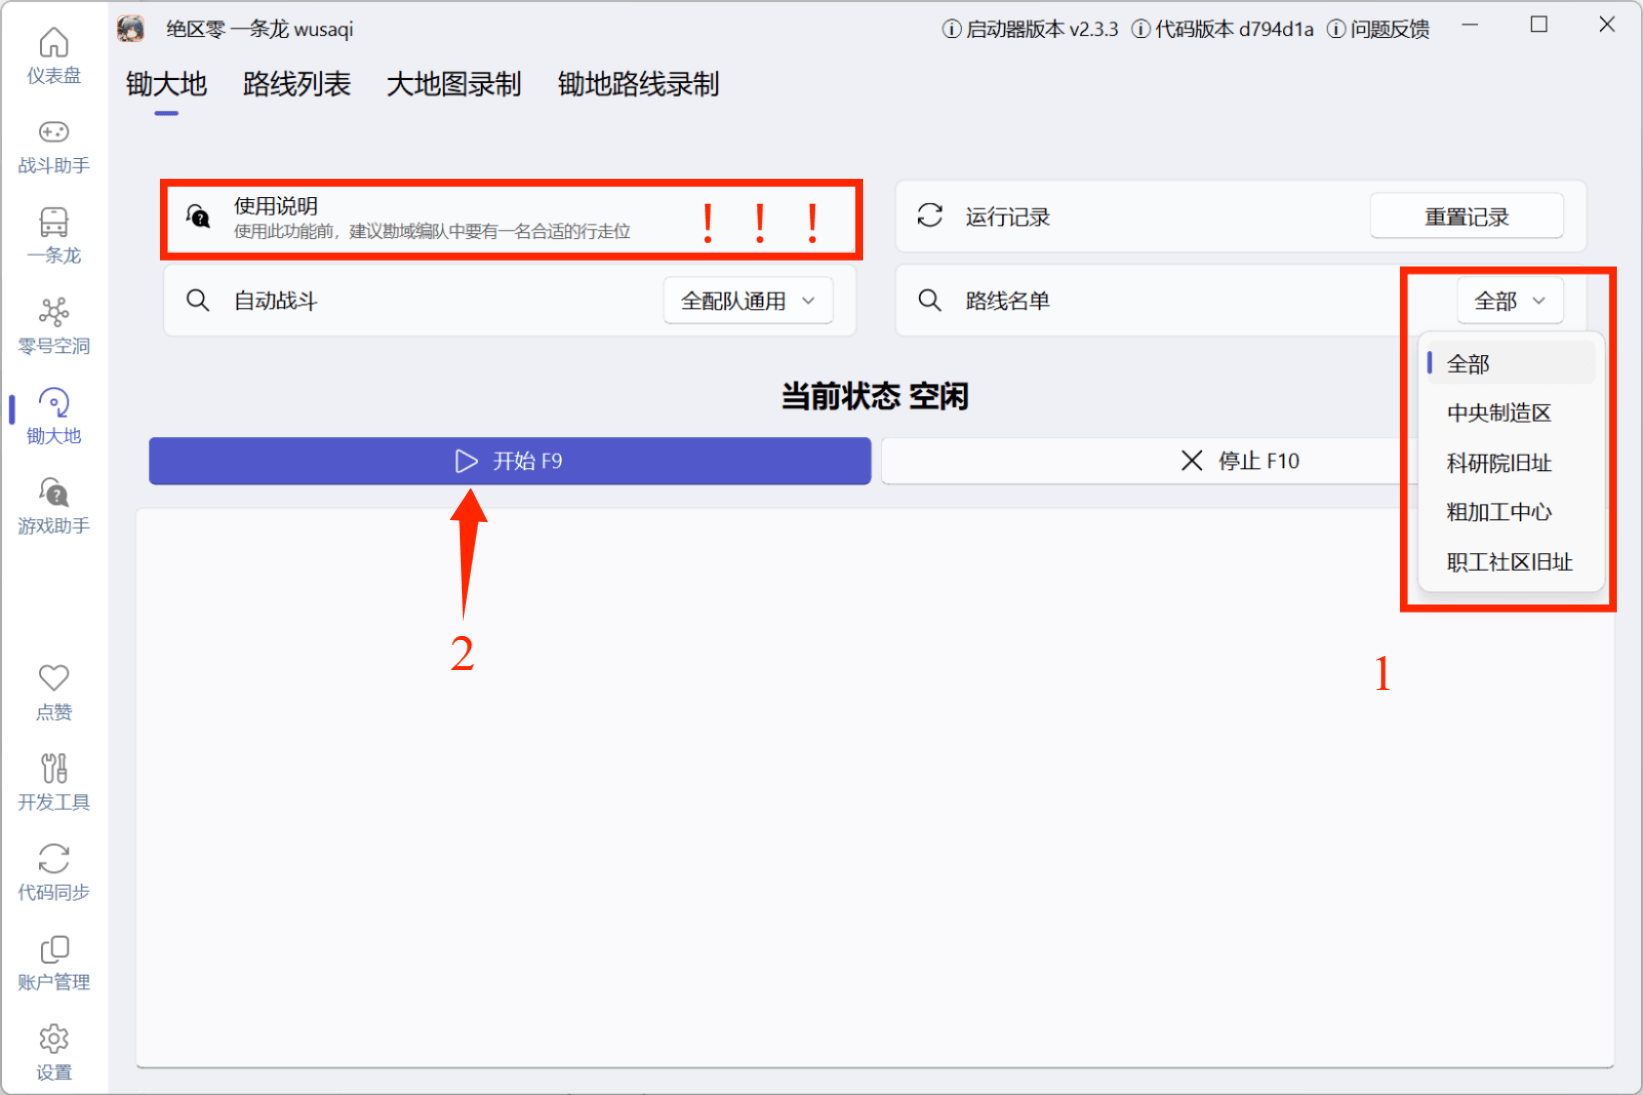
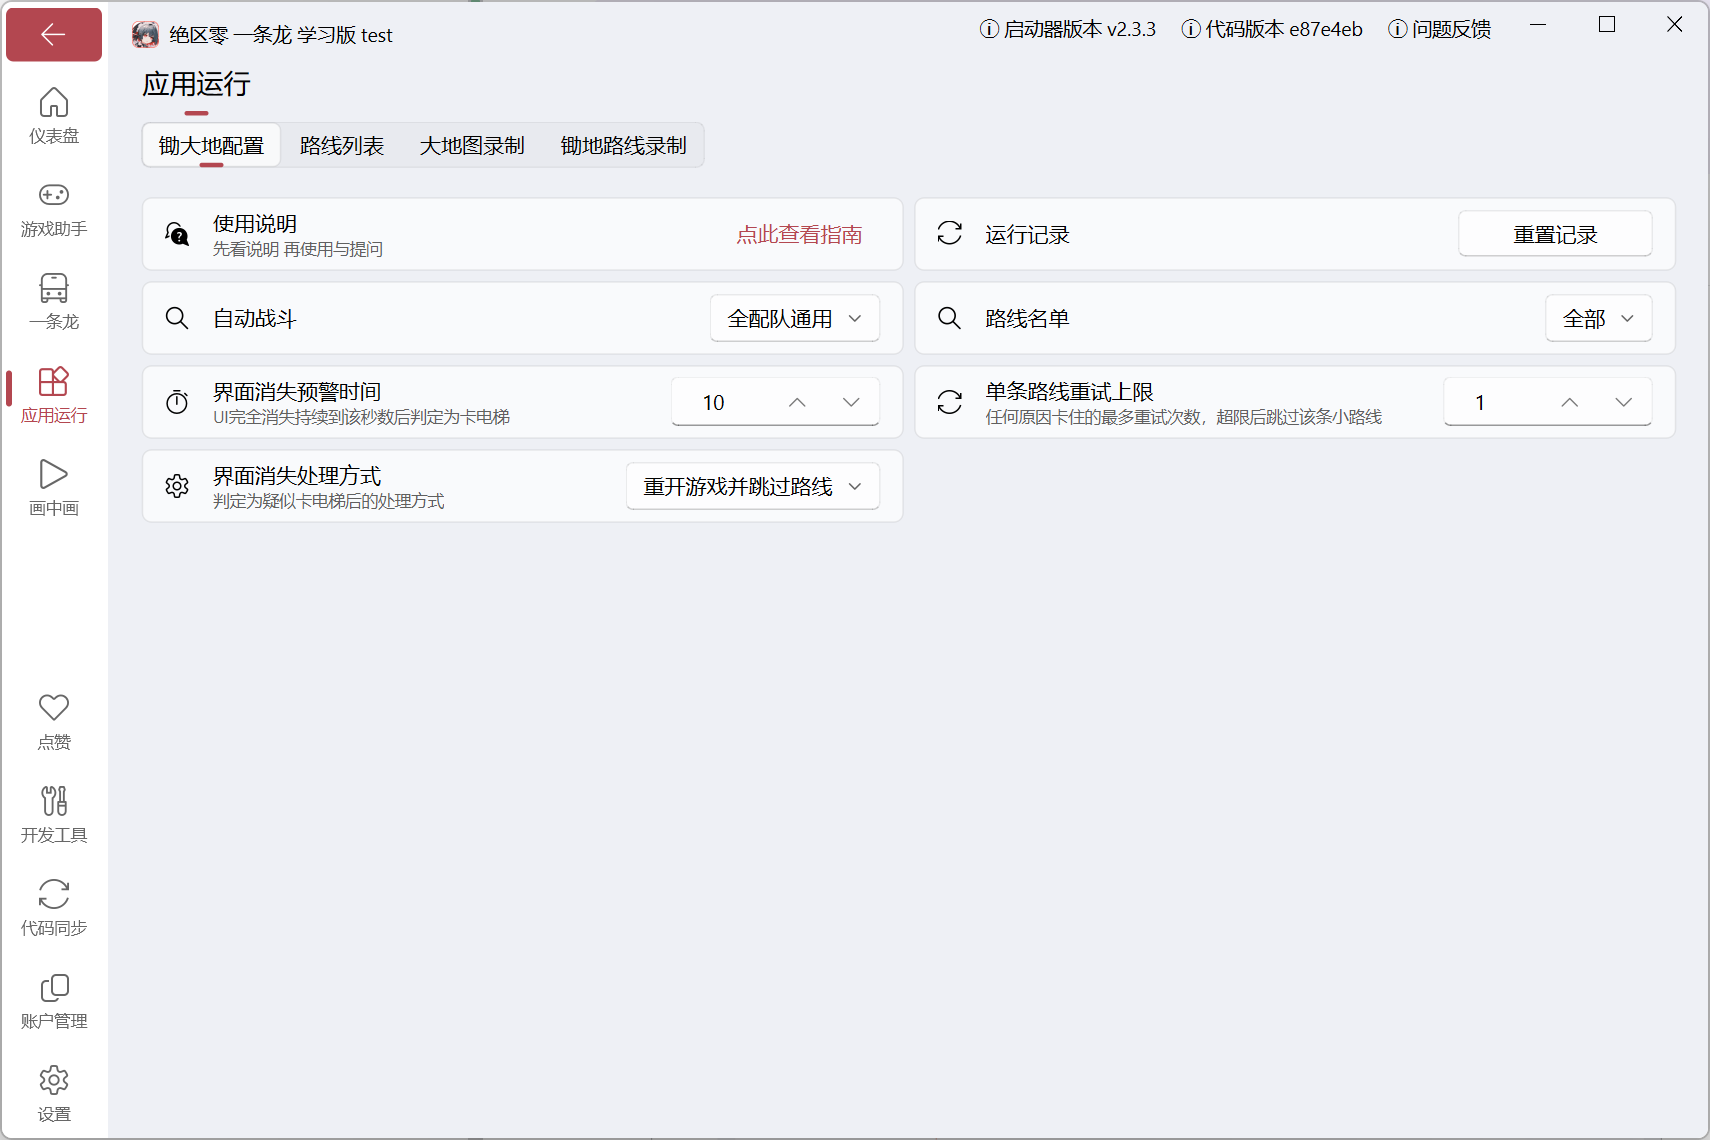
锄大地：补齐剩余配置说明

diff --git a/src/zzz/zh/feat_one_dragon/world_patrol.md b/src/zzz/zh/feat_one_dragon/world_patrol.md
@@ -1,7 +1,7 @@
 ---
 lang: zh-CN
 title: 锄大地
-date: 2026-04-21
+date: 2026-05-31
 ---
 
 使用本页说明的功能时，建议阅读以下内容：
@@ -9,9 +9,10 @@ date: 2026-04-21
 
 - 锄大地功能意见或问题，请前往[issue](https://github.com/OneDragon-Anything/ZenlessZoneZero-OneDragon/issues)或[PR](https://github.com/OneDragon-Anything/ZenlessZoneZero-OneDragon/pulls)
 - 首次使用前，建议运行一次[灵敏度校准](./onedragon.md#灵敏度校准)
+- 路线相关功能（`路线列表`、`大地图录制`、`锄地路线录制`）属于进阶/开发向功能，绝大多数用户<font color="red">无需自行录制或编辑名单</font>，[锄大地配置](#锄大地配置)的 `路线名单` 保持默认 `全部` 即可。仅在需要补充新区域、修正路线或自定义运行范围时，才需要用到这些内容
 :::
 
-## 锄大地
+## 功能说明
 
 用于自动前往 `航天城` 清理野怪完成锄大地，获得丁尼、代理人经验和音擎经验材料
 
@@ -29,19 +30,76 @@ date: 2026-04-21
 
 ![锄大地](world_patrol/feat_world_patrol.png)
 
-## 锄大地录制
+## 配置说明
+
+### 锄大地配置
+
+在 `锄大地配置` 标签页中，可对运行行为进行设置。一般情况下使用默认配置即可，下面对各配置项做说明。
+
+| 配置项 | 说明 |
+| ---- | ---- |
+| 运行记录 | 点击 `重置记录` 可清空当天已完成路线的记录，方便重新运行 |
+| 自动战斗 | 选择锄大地过程中触发战斗时使用的自动战斗配置，默认为 `全配队通用`，配置方式详见 [自动战斗](../feat_game_assistant.md#战斗助手) |
+| 路线名单 | 选择运行时使用的[路线名单](#路线列表)，默认 `全部`（即不做名单过滤，运行所有路线） |
+| 界面消失预警时间 | 当游戏界面（UI）完全消失并持续到设定秒数后，判定为 `疑似卡电梯`。默认 `10` 秒，最大 `999` 秒 |
+| 单条路线重试上限 | 单条路线因任何原因卡住时的最大重试次数，超过后跳过该条路线。默认 `1` |
+| 界面消失处理方式 | 判定为疑似卡电梯后的处理方式。可选：`静默失败`（默认，直接判定当前路线失败并跳过，不重开游戏）、`重开游戏并跳过路线`（自动关闭并重新打开游戏，然后跳过当前路线）、`重开游戏并重试路线`（自动关闭并重新打开游戏，在 `单条路线重试上限` 范围内重新尝试当前路线，超限后才跳过） |
+
+::: tip
+若选择带 `重开游戏` 的处理方式，需要确保已正确配置游戏路径，否则脚本无法重新打开游戏。
+:::
 
 ### 路线列表
+
+`路线列表` 用于把录制好的路线组合成一份名单，供 [锄大地配置](#锄大地配置) 的 `路线名单` 选择运行。
 
 1. 点击 `名单选择` 右侧的框，选择白名单/黑名单模式
 2. 点击 `新建` 创建路线，输入路线名称
 3. 选择区域添加已有路线(当前有且仅有莱姆尼安空洞)
 4. 添加完成后点击 `保存` ，即可在路线名单内找到并运行
 
+更多操作说明：
+
+- **名单类型**：`白名单` 表示只运行名单内的路线；`黑名单` 表示运行除名单内以外的所有路线。
+- **添加路线**：在 `区域选择` 选好区域后，下方 `当前区域可用路线` 会列出该区域所有路线。可选中单条后点 `添加单条路线`，或直接点 `添加整个区域` 一次性加入。
+- **顺序调整**：在上方 `路线列表` 中选中某条路线，用 `上移`/`下移` 调整运行顺序，`移除` 将其从名单中删除。
+- **保存/删除**：编辑完成后点击 `保存`；`删除` 可删除整份名单，`取消` 放弃当前编辑。
+
 ### 大地图录制
 
-> 待施工
+`大地图录制` 用于拼接出一个完整区域的大地图，作为路线录制的底图。原理是：在游戏中转动视角，脚本对小地图进行截图、识别道路，并不断合并到一张大地图上。
+
+操作步骤：
+
+1. **选择区域**：在 `区域` 行依次选择 `入口` 和具体 `区域`。
+2. **加载/重置**：点击 `加载` 读取该区域已有的大地图数据；若不存在则会新建一张空地图。已加载后按钮变为 `重置`。
+3. **首次缩放（仅第一次需要）**：在 `缩放` 中填入百分比（默认 `40`）后点击 `应用`，用于把地图调整到合适大小。后续在同一张地图上继续录制时无需再调整。
+4. **截图(1)**：进入游戏对应区域后，点击 `截图` 或按快捷键 `1`。脚本会截取当前小地图，自动转身 180° 再截一次，并把两次结果合并，得到一段较完整的小地图道路。
+5. **定位(2)**：点击 `定位` 或按 `2`，脚本会根据上一次的坐标，计算当前小地图在大地图上的位置。
+    - 若计算前没有任何坐标，需先在右侧大地图上 **点击** 一个大致位置作为起点。
+    - 勾选 `使用图标计算坐标` 可借助地图图标辅助定位；`图标匹配阈值`（默认 `0.7`）可在识别不准时微调。
+6. **微调**：定位结果不准时，可用 `角色坐标` 行的 `横移`/`纵移` 输入像素值进行平移修正。
+7. **重叠(3)**：点击 `重叠` 或按 `3`，切换小地图在大地图上的叠加显示方式，便于核对拼接是否对齐。
+8. **合并(4)**：确认位置无误后，点击 `合并` 或按 `4`，把这段小地图正式合并进大地图。`回退` 可撤销上一次合并（只能撤销一次）。
+9. **重复 4~8**：在游戏中移动到相邻位置，重复截图、定位、合并，逐步把整个区域拼完整。
+10. **编辑图标**：点击 `编辑图标` 打开图标编辑器，可增删、调整地图上的传送点等图标（传送点对应模板 `map_icon_01`，是后续录制路线选择起点的依据）。
+11. **保存**：完成后点击 `保存` 写入数据；`删除` 可删除该区域的大地图，`取消` 放弃当前编辑。
 
 ### 锄地路线录制
 
-> 待施工
+`锄地路线录制` 在已录好的大地图上，逐点记录角色坐标，生成一条从传送点出发的移动路线。录制完成的路线可在 [路线列表](#路线列表) 中组合成名单后运行。
+
+操作步骤：
+
+1. **选择路线**：在 `路线` 行依次选择 `入口`、`区域`，对应区域的大地图会自动加载。已有路线会在第三个下拉框中列出（格式为 `序号 - 传送点 (步数)`）。
+2. **选择传送点**：在 `传送点` 行选择本条路线的起始传送点（来源于大地图中标注的 `map_icon_01` 图标）。
+3. **新增**：点击 `新增` 基于所选传送点创建一条新路线（需先选好区域和传送点）。
+4. **记录移动点**，有两种方式：
+    - **截图(1)**：在游戏中移动到目标位置后点击 `截图` 或按 `1`，脚本识别当前小地图坐标并自动追加一个移动点。
+    - **大地图点击**：直接在右侧大地图上点击目标位置。开启 `点击后自动追加移动` 时，点击即追加移动点；关闭时则需再点 `添加移动(4)` 或按 `4` 确认。
+5. **回退(5)**：点击 `回退` 或按 `5`，删除最后一个移动点。
+6. **编辑操作**：点击 `编辑操作` 打开表格编辑器，可逐条查看/修改移动点的坐标（数据1为 X、数据2为 Y），并支持添加、删除、上移、下移。
+7. **调试**：在 `调试` 行可填入起始步数（`0` 表示需要先传送，`1` 表示已完成第 1 步），点击 `调试` 让脚本实际运行该路线进行验证。
+8. **保存**：确认无误后点击 `保存`。`删除` 删除当前路线，`取消` 放弃当前编辑。
+
+> 右侧大地图会实时可视化路线：黄/青色圆圈为起始传送点，绿色圆圈与连线为各移动点及其顺序。
